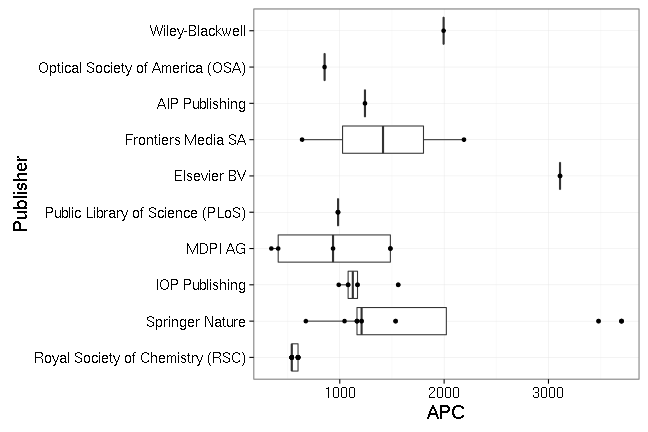
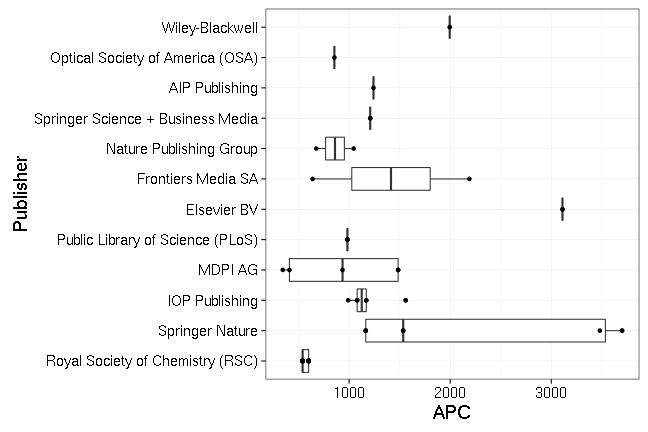
update: hzdr_2016_09_29

diff --git a/_posts/2016-09-29-hzdr.md b/_posts/2016-09-29-hzdr.md
@@ -24,18 +24,20 @@ The datasets covers publication fees for 52 articles. Total expenditure amounts 
 The following table shows the payments the library of the HZDR has made to publishers in 2014 and 2015 (including taxes and discounts).
 
 
-|                                 | Articles| Fees paid in EURO| Mean Fee paid|
-|:--------------------------------|--------:|-----------------:|-------------:|
-|Royal Society of Chemistry (RSC) |       19|             10800|           568|
-|Springer Nature                  |       12|             21584|          1799|
-|IOP Publishing                   |        6|              7050|          1175|
-|MDPI AG                          |        5|              4659|           932|
-|Public Library of Science (PLoS) |        3|              2948|           983|
-|Elsevier BV                      |        2|              6221|          3111|
-|Frontiers Media SA               |        2|              2829|          1414|
-|AIP Publishing                   |        1|              1241|          1241|
-|Optical Society of America (OSA) |        1|               855|           855|
-|Wiley-Blackwell                  |        1|              1995|          1995|
+|                                  | Articles| Fees paid in EURO| Mean Fee paid|
+|:---------------------------------|--------:|-----------------:|-------------:|
+|Royal Society of Chemistry (RSC)  |       19|             10800|           568|
+|Springer Nature                   |        8|             17445|          2181|
+|IOP Publishing                    |        6|              7050|          1175|
+|MDPI AG                           |        5|              4659|           932|
+|Public Library of Science (PLoS)  |        3|              2948|           983|
+|Elsevier BV                       |        2|              6221|          3111|
+|Frontiers Media SA                |        2|              2829|          1414|
+|Nature Publishing Group           |        2|              1721|           860|
+|Springer Science + Business Media |        2|              2418|          1209|
+|AIP Publishing                    |        1|              1241|          1241|
+|Optical Society of America (OSA)  |        1|               855|           855|
+|Wiley-Blackwell                   |        1|              1995|          1995|
 
 ### Fees paid per publisher (in EURO)
 
